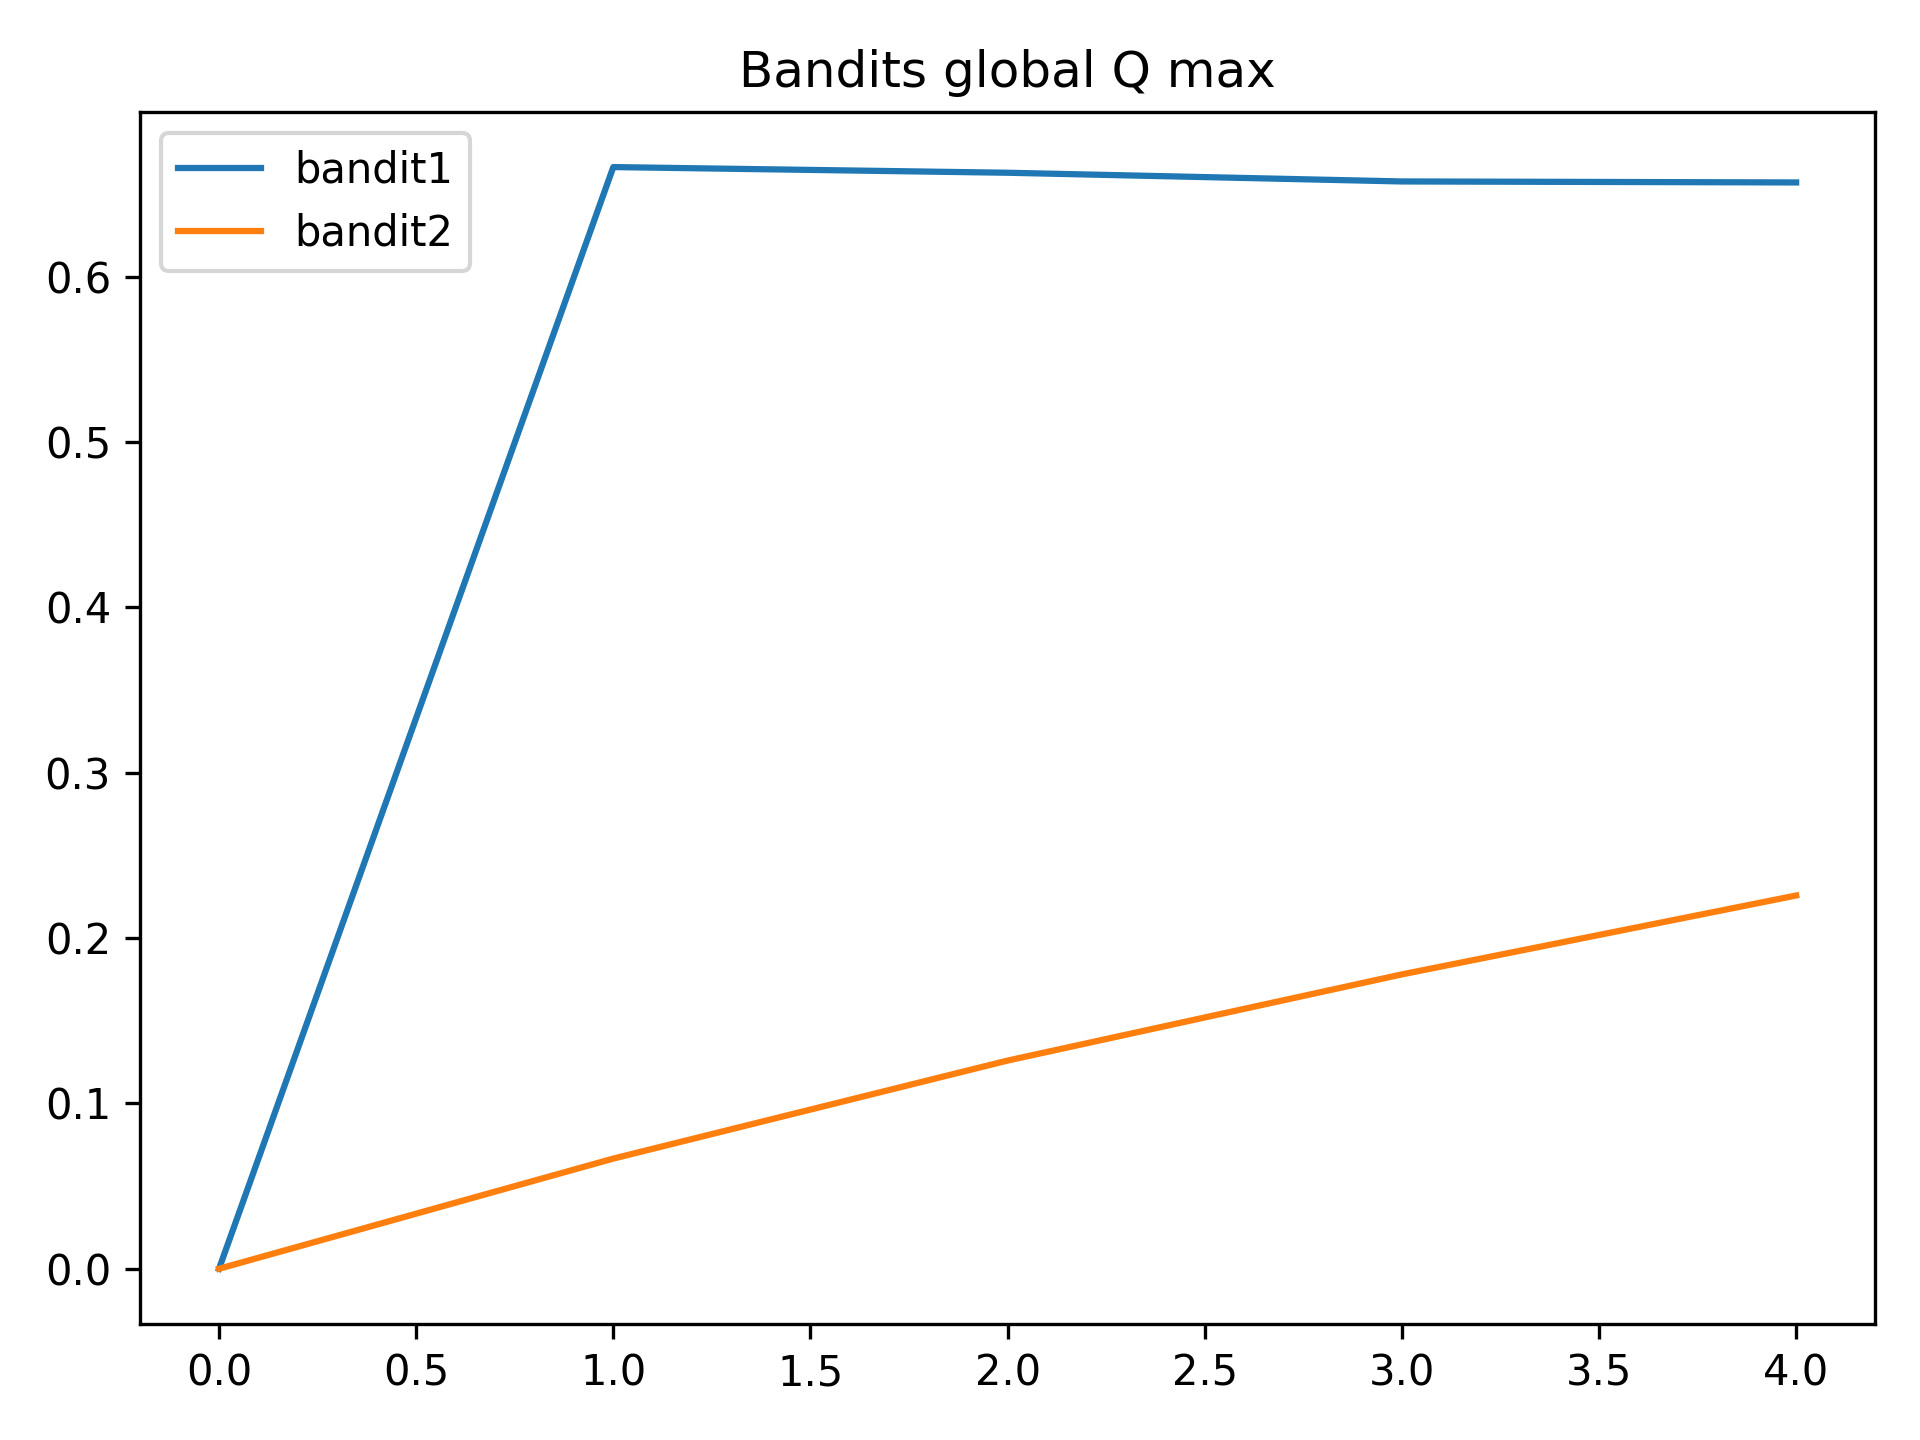
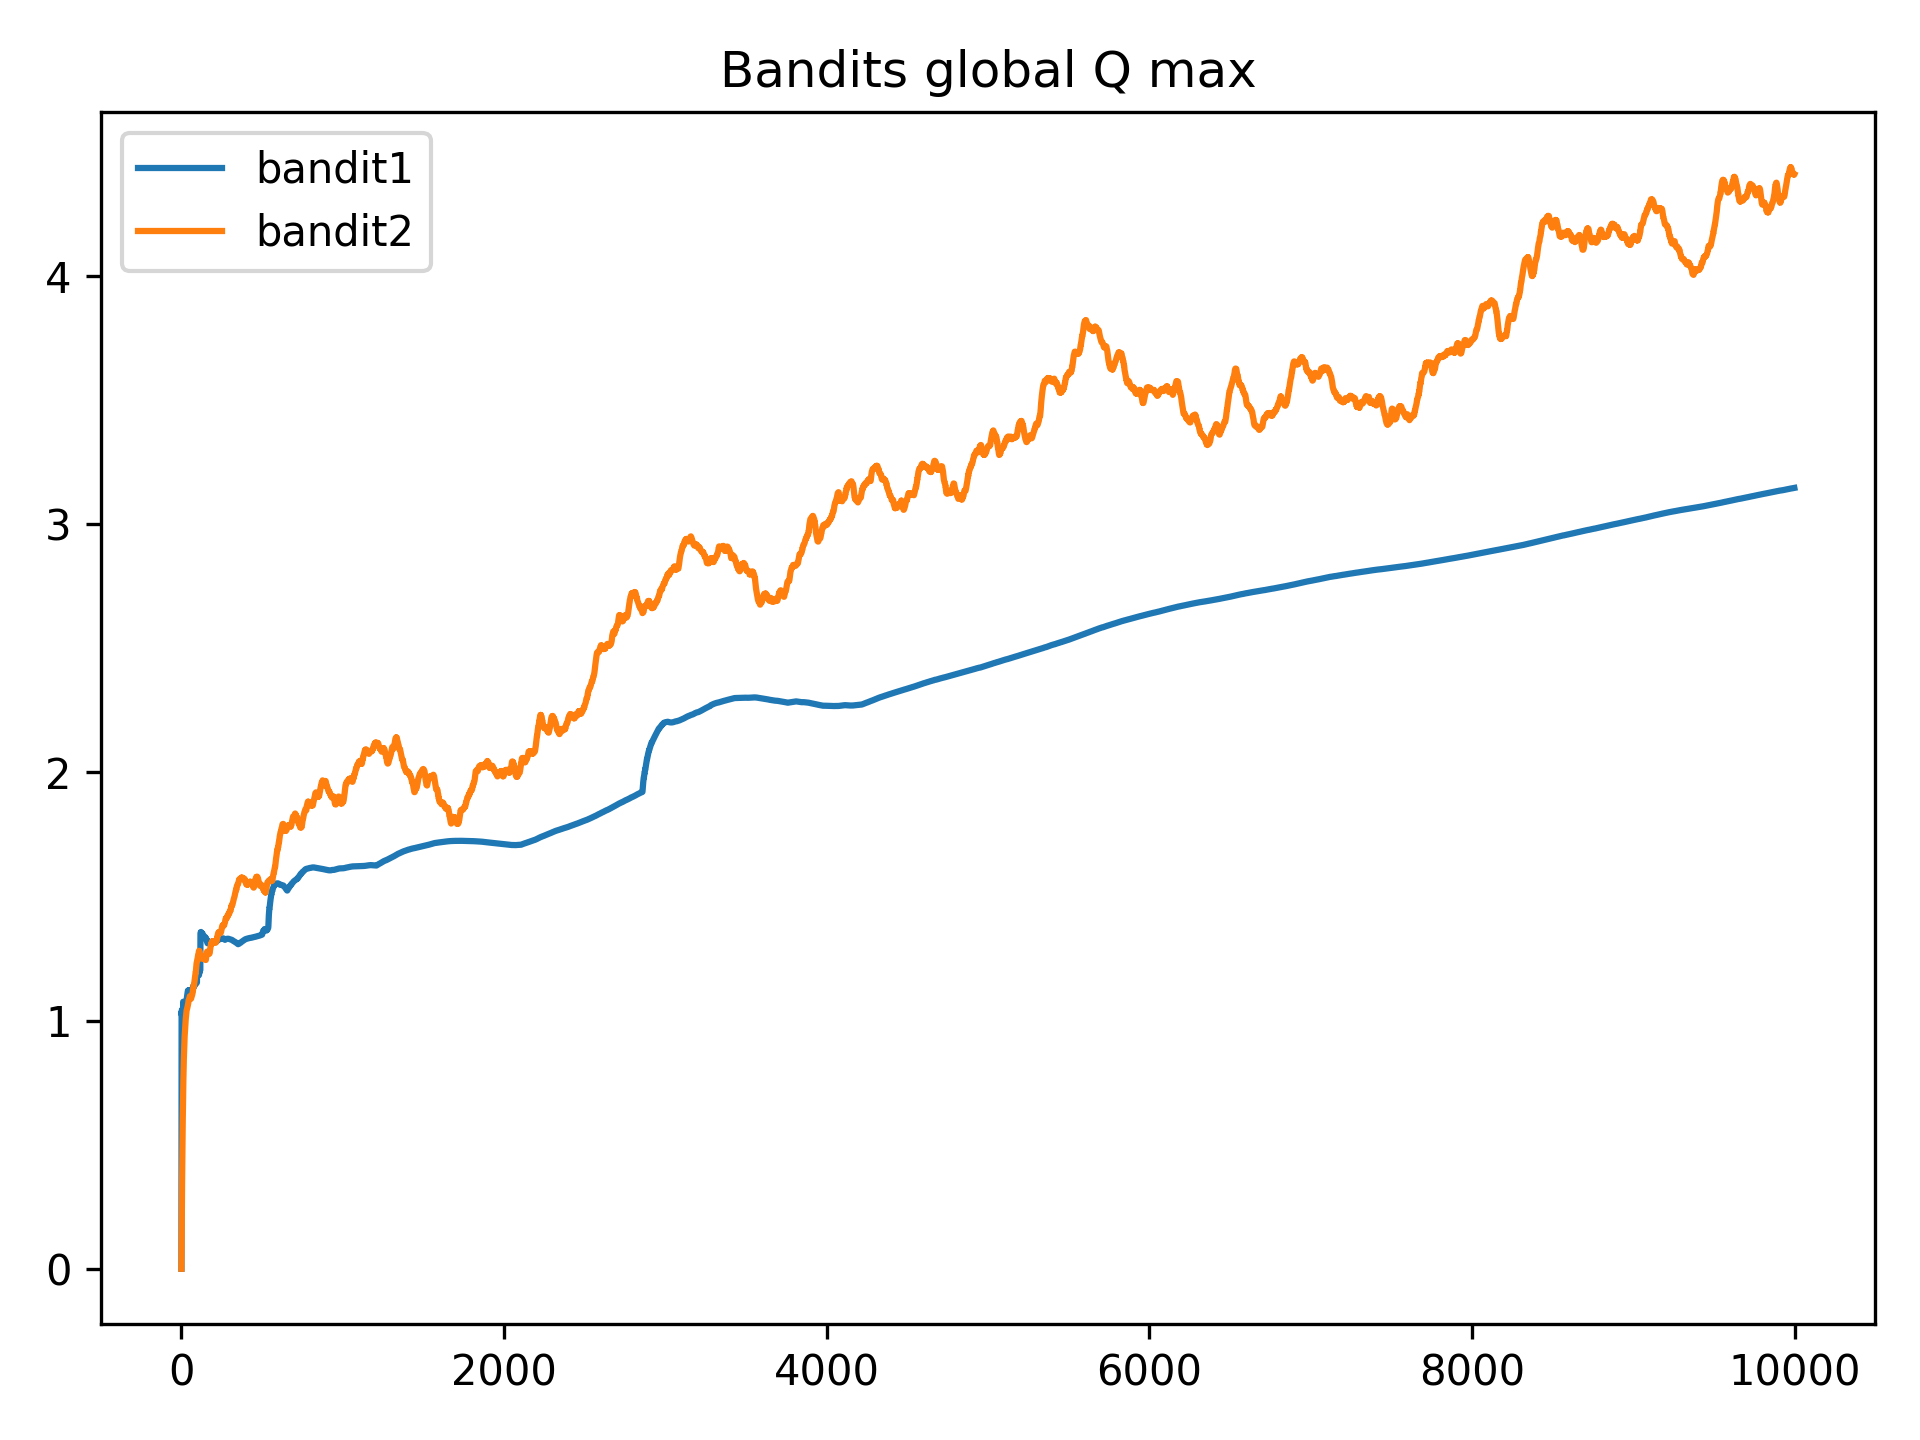
Got rid of unnecessary for loops and made plotting easier

diff --git a/src/CS6900/exercise_2_5_try2.py b/src/CS6900/exercise_2_5_try2.py
@@ -8,12 +8,16 @@ import matplotlib.pyplot as plt
 import seaborn as sns
 
 import modules.easy_plots
-# plt.style.use('dark_background')
 
 
 # Make a class so that we can just call the different methods twice, one with
 # sample averages, and one with action-value method.
 class Bandits:
+    """
+    Make a class so that we can just call the different methods twice, one with
+    sample averages, and one with the action-value method. Action value should
+    perform better, and we see that it does.
+    """
 
     step = 0 # What time step we are on, this is shared by all instances of Bandits class
     run = 0 # What run are we on, this is shared by all instances of Bandits class
@@ -65,9 +69,7 @@ class Bandits:
         the greedy action every time?
         """
 
-        Q_max_arr = np.zeros(self.n_steps)
-        for i in range(self.n_steps):
-            Q_max_arr[i] = np.max(self.Q[:, i])
+        Q_max_arr = np.max(self.Q, axis=0)
         return Q_max_arr
 
     def get_global_Q_max(self):
@@ -81,25 +83,24 @@ class Bandits:
         high values and drop the average. Will not be accurate.
         """
 
-        Q_global_mean = np.mean(self.Q_global, axis=2)
-        Q_global_max = np.zeros((self.n_steps))
+        # Return maximum Q over all steps and runs, n_steps x n_runs array
+        Q_global_max = np.max(self.Q_global, axis=0)
 
-        for i in range(self.n_steps):
-            Q_global_max[i] = np.max(Q_global_mean[:, i])
-        return Q_global_max
-    
-        for j in range(self.n_runs):
-            
+        # Return the average Q_max over all the runs, n_steps x 1 array
+        Q_global_max_mean = np.max(Q_global_max, axis = 1)
 
+        return Q_global_max_mean
 #-----------------------------------------------------------------------------
 
 
 
 def get_reward(mu_list, sigma_list):
-    # Get an array with the rewards of each lever for this time step
-    reward = np.zeros(len(mu_list))
-    for i in range(len(mu_list)):
-        reward[i] = np.random.normal(mu_list[i], sigma_list[i], 1)
+    """
+    Get an array with the rewards of each lever for this time step
+    """
+
+    # Return n_armsx1 array of the rewards for this step
+    reward = np.random.normal(mu_list, sigma_list)
     return reward
 
 def plot_levers(mu_list, sigma_list, run_num = 0):
@@ -118,7 +119,7 @@ def plot_levers(mu_list, sigma_list, run_num = 0):
         plt.title("Levers at end of run " + str(run_num))
         modules.easy_plots.save_fig("levers_run_"+str(run_num))
 
-def plot_bandits(list_of_bandits):
+def plot_bandits_and_action(list_of_bandits):
     
     # Plot expected reward of greedy action vs time
     f, (ax1,ax2) = plt.subplots(1,2, sharex=True)
@@ -136,8 +137,18 @@ def plot_bandits(list_of_bandits):
     
     plt.legend()
     ax2.set_title("Bandits chosen action for run " + str(Bandits.run))
-    modules.easy_plots.save_fig("run_"+ str(Bandits.run))
+    modules.easy_plots.save_fig("Q_and_action_run_"+ str(Bandits.run))
 
+def plot_bandits(list_of_bandits):
+
+    plt.figure()
+    for i in list_of_bandits:
+        this_qmax = i.get_Q_max()
+        plt.plot(this_qmax, label=i.name)
+
+    plt.legend()
+    plt.title("Bandits run " + str(Bandits.run))
+    modules.easy_plots.save_fig("Q_run_"+ str(Bandits.run))
 
 def plot_globals_bandits(list_of_bandits):
 
@@ -148,7 +159,6 @@ def plot_globals_bandits(list_of_bandits):
     plt.legend()
     plt.title("Bandits global Q max")
     modules.easy_plots.save_fig("Q_global_max")
-
 
 """
 We have two RL agents standing in front of several different levers. The
@@ -162,8 +172,8 @@ at every time step.
 
 # CONSTANTS
 n_arms = 10
-n_steps = 5
-n_runs = 3
+n_steps = 10000
+n_runs = 30
 epsilon1 = .1
 epsilon2 = .1
 alpha1 = 0
@@ -217,7 +227,6 @@ for j in range(n_runs):
 
     Bandits.run = Bandits.run + 1
     bandit1.Q_global[:,:,j] = bandit1.Q[:,:] # Save that run
-    print(bandit1.Q[:,:])
     bandit2.Q_global[:,:,j] = bandit2.Q[:,:]
     plot_bandits([bandit1, bandit2]) # Visualize levers at end of each run
     # Reset bandits for the next run...
@@ -229,11 +238,7 @@ for j in range(n_runs):
 
 
 
-print(bandit1.Q_global)
-print("\n\n\n\n")
-print(np.mean(bandit1.Q_global, axis=2))
 plot_globals_bandits([bandit1, bandit2])
-look_here = bandit2.Q_global
 plt.show()
 
 # if __name__ == '__main__':
